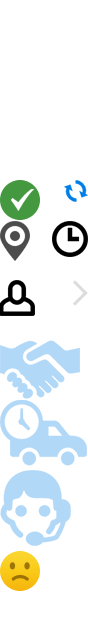
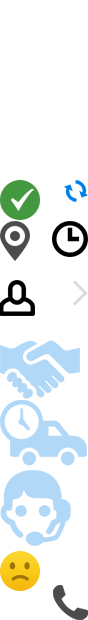
样式修改

Changed region(s): [[0.5909, 0.9194, 1.0, 1.0]]

diff --git a/webroot/static/css/style.css b/webroot/static/css/style.css
@@ -1,8 +1,9 @@
 @charset "utf-8";
 /* CSS Document */
 
-*{ padding:0; margin:0;}
-body{ font-size:12px; color:#333; font-family:"Microsoft YaHei","微软雅黑","Microsoft JhengHei", "黑体", "宋体"; -webkit-text-size-adjust:none; background-color:#f5f5f5;}
+*{ padding:0; margin:0;font-family:"Microsoft YaHei","微软雅黑","Microsoft JhengHei", "黑体", "宋体";}
+body{ font-size:12px; color:#333;  -webkit-text-size-adjust:none; background-color:#f5f5f5;
+}
 a{text-decoration: none}
 a:hover{text-decoration: none}
 li{list-style: none;dispaly:list-item;}
@@ -10,6 +11,7 @@ img{border: none;vertical-align: top}
 input{border: medium none;vertical-align: middle}
 textarea{resize:none;}
 button{border: medium none;}
+input[type="button"], input[type="submit"], input[type="reset"], input[type="file"]{ -webkit-appearance:none; }
 h1,h2,h3,h4,h5,h6,div,li,p{font-size: 100%;font-weight: normal;}
 /************************ 通用清除 ************************/
 .iclear{ clear:both; height:0;line-height:0;overflow:hidden;}
@@ -19,7 +21,7 @@ h1,h2,h3,h4,h5,h6,div,li,p{font-size: 100%;font-weight: normal;}
 .fLeft{float:left; display:block; width:auto;}
 .fRight{float:right; display:block; width:auto;}
 .inputbtu{height:44px;margin:0 10px 10px;}
-.inputbtu .btu{height:44px;line-height:44px;  text-align:center; font-size:16px; color:#fff; width:100%; background-color:#f37e00;border-radius:4px;}
+.inputbtu .btu{height:44px;line-height:44px;  text-align:center; font-size:16px; color:#fff; width:100%; background-color:#f37e00;border-radius:4px; -webkit-appearance:none; }
 .tip{margin:0 10px 10px;line-height:16px; font-size:12px; color:#bbbbbb;}
 /*header的样式*/
 header{ overflow:hidden; height:44px; background: #007ee8;margin-bottom:11px;zoom:1; position:relative;}
@@ -39,10 +41,13 @@ header .return{width:45px;height:44px; display:block; position:absolute; top:0; 
 .slist li label i{ display:block; position:absolute; top:1px; left:0; height:22px; width:29px; background:url(../img/ico.png) no-repeat 6px -110px; background-size:44px 310px;}
 .slist li label i.time{ background-position:-21px -110px;}
 .slist li label i.num{ background-position:5px -140px;}
+.slist li label i.phone{background-position:-23px -291px}
 
-.slist li a{  width:auto; height:22px; line-height:22px; overflow:hidden; position:relative; padding-right:20px; color:#dfdfdf; font-size:16px;}
+.slist li a{  width:auto; height:22px; line-height:22px; overflow:hidden; position:relative; padding-right:20px; color:#dfdfdf; font-size:16px; background-color:#fff;}
 .slist li a i{ display:block; position:absolute; top:6px; right:0; height:12px; width:8px; background:url(../img/ico.png) no-repeat right -140px; background-size:44px 310px;}
-
+.slist li .fRight{border:none;height:22px; line-height:22px; text-align:right; color:#dfdfdf; font-size:16px; }
+.slist li:hover .fRight{background-color:#eaf5fe;}
+.slist li .fRight.col{color:#508eff;}
 /*about is   list*/
 .about{margin:0px 10px 10px; border:1px solid #e0e0e0; border-radius:4px; background-color:#fff;padding:15px 10px;overflow:hidden;}
 .about li{ position:relative;}
@@ -55,7 +60,7 @@ header .return{width:45px;height:44px; display:block; position:absolute; top:0; 
 .alist{margin:0px 10px 10px; border:1px solid #e0e0e0; border-left:none; border-radius:4px; background-color:#fff; overflow:hidden;}
 .alist a{ display:block; position:relative;overflow:hidden;}
 
-.alist a .state{width:20px; text-align:center; position:absolute; top:0px; left:0px; background-color:#f37e00; font-size:10px;line-height:14px;  display:block;padding:12px 0 ; -webkit-text-size-adjust:none;  color:#fff;}
+.alist a .state{width:20px; text-align:center;  float:left;background-color:#f37e00; font-size:10px;line-height:14px;  display:block;padding:12px 0 ; -webkit-text-size-adjust:none;  color:#fff; height:100%;}
 .alist a .state_lv{ background-color:#469e0c;}
 .alist a .state_hui{ background-color:#bbbbbb;}
 .alist a div{margin:10px 22px 10px 28px;}
